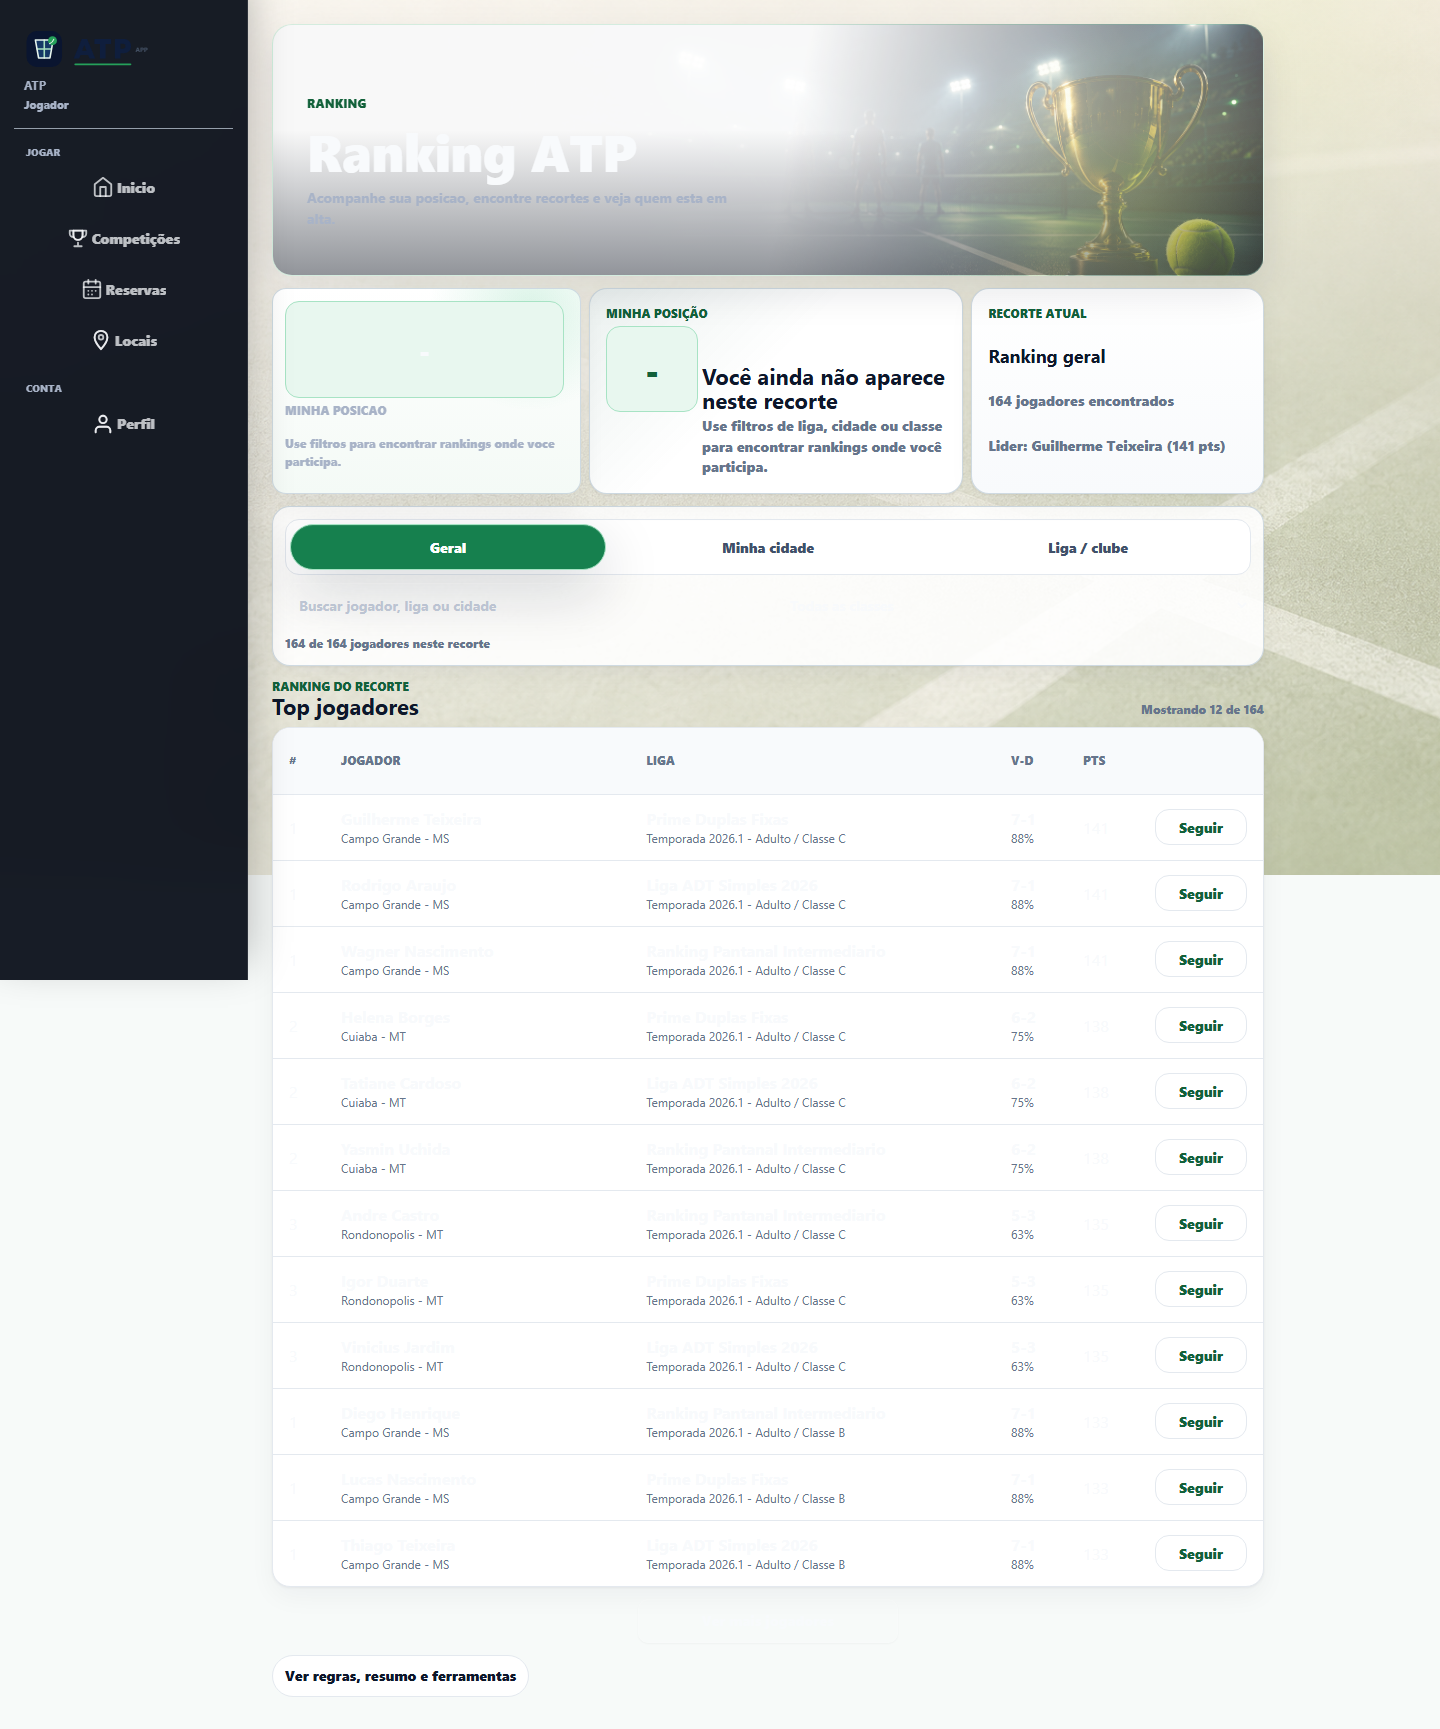
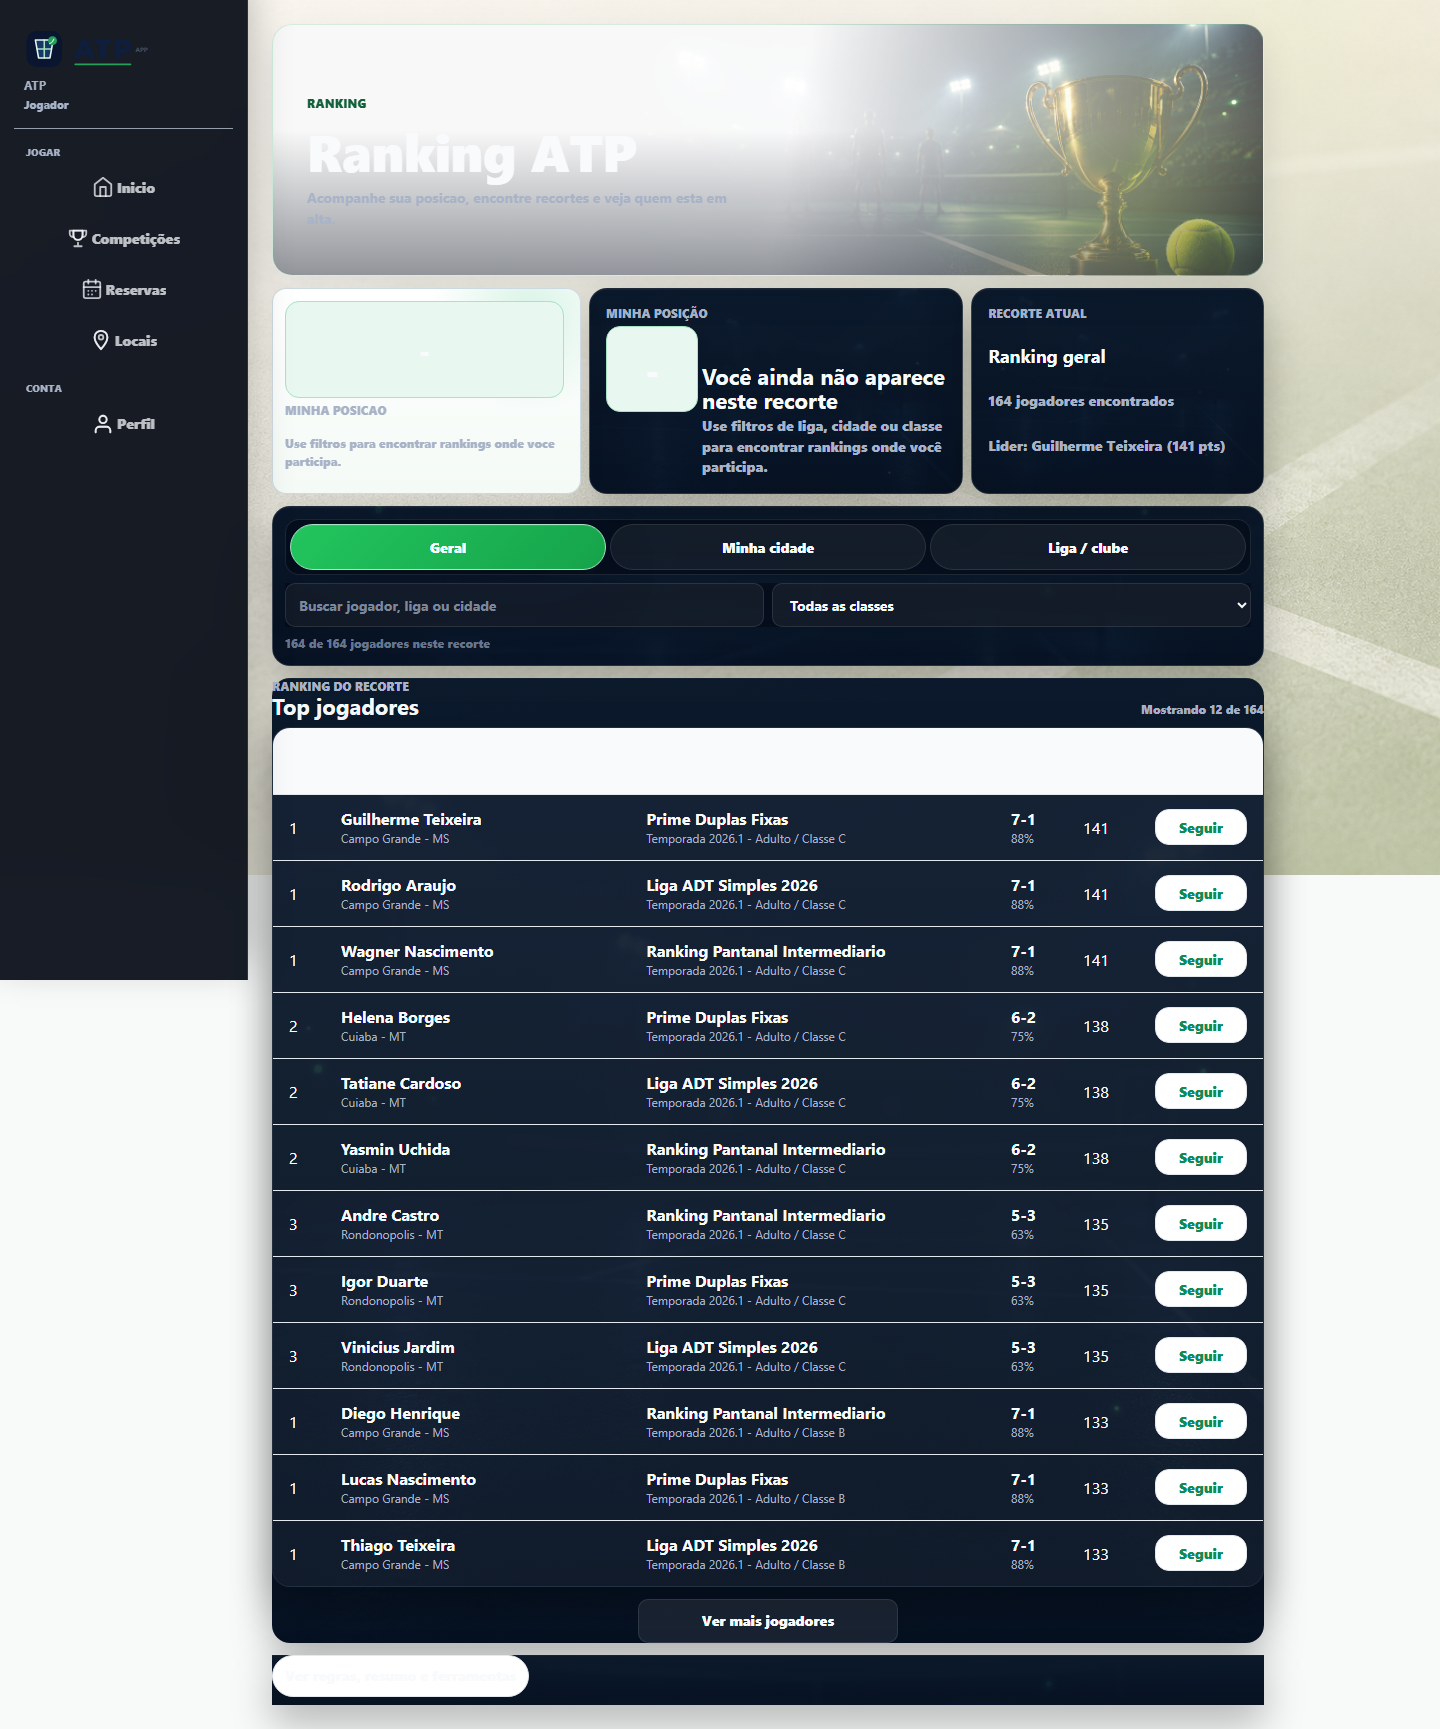
feat: ATP fase 1 — rebrand, perfil, locais, schema base

diff --git a/apps/web/src/App.css b/apps/web/src/App.css
@@ -23754,3 +23754,294 @@ label {
     scroll-snap-align: start;
   }
 }
+
+/* ----- PDARK-04: tournaments and leagues internal routes ----- */
+.app-shell--competition .events-result-list {
+  display: grid;
+  gap: 12px;
+  grid-template-columns: repeat(auto-fit, minmax(260px, 1fr));
+}
+
+.app-shell--competition .events-result-list.organizing,
+.app-shell--competition .events-all-disclosure {
+  background:
+    linear-gradient(180deg, rgba(12, 27, 45, 0.9), rgba(8, 20, 36, 0.78)),
+    url("./assets/pdark-messages-chat-bg.png") center / cover no-repeat;
+  border: 1px solid var(--pdark-border-soft);
+  border-radius: 20px;
+  box-shadow: var(--pdark-card-shadow);
+  color: var(--pdark-text-main);
+  padding: 14px;
+}
+
+.app-shell--competition .events-result-list.organizing summary,
+.app-shell--competition .events-all-disclosure summary,
+.app-shell--competition .events-filter-disclosure summary {
+  color: var(--pdark-text-main);
+  font-weight: 950;
+}
+
+.app-shell--competition .event-card {
+  background:
+    linear-gradient(180deg, rgba(12, 27, 45, 0.92), rgba(8, 20, 36, 0.8)),
+    url("./assets/pdark-tournament-card-01.png") center / cover no-repeat;
+  border-color: var(--pdark-border-soft);
+  border-radius: 20px;
+  box-shadow: var(--pdark-card-shadow);
+  color: var(--pdark-text-main);
+  overflow: hidden;
+}
+
+.app-shell--competition .event-card .ec-body {
+  background: linear-gradient(180deg, rgba(3, 9, 20, 0.28), rgba(3, 9, 20, 0.88));
+}
+
+.app-shell--competition .event-card .ec-name,
+.app-shell--competition .event-card .ec-name-row,
+.app-shell--competition .event-card strong {
+  color: var(--pdark-text-main);
+}
+
+.app-shell--competition .event-card .ec-info-left,
+.app-shell--competition .event-card small,
+.app-shell--competition .event-card .ec-footer-left {
+  color: var(--pdark-text-muted);
+}
+
+.app-shell--competition .event-card .ec-chip,
+.app-shell--competition .home-league-chip,
+.app-shell--competition .organizer-tournament-chip-row span {
+  background: rgba(34, 197, 94, 0.12);
+  border-color: rgba(34, 197, 94, 0.26);
+  color: #4ade80;
+}
+
+.app-shell--competition .organizer-tournament-command {
+  background:
+    linear-gradient(180deg, rgba(12, 27, 45, 0.92), rgba(8, 20, 36, 0.78)),
+    url("./assets/pdark-competitions-trophy-desktop-hero.png") center / cover no-repeat;
+  border-color: rgba(34, 197, 94, 0.24);
+  color: var(--pdark-text-main);
+}
+
+.app-shell--competition .organizer-tournament-command h2,
+.app-shell--competition .organizer-tournament-command strong,
+.app-shell--competition .organizer-tournament-row strong {
+  color: var(--pdark-text-main);
+}
+
+.app-shell--competition .organizer-tournament-command p,
+.app-shell--competition .organizer-tournament-row small,
+.app-shell--competition .organizer-tournament-command span {
+  color: var(--pdark-text-muted);
+}
+
+.app-shell--competition .organizer-tournament-row {
+  background: rgba(255, 255, 255, 0.055);
+  border: 1px solid var(--pdark-border-soft);
+  border-radius: 16px;
+  color: var(--pdark-text-main);
+}
+
+.app-shell--competition .events-filter-card {
+  background:
+    linear-gradient(180deg, rgba(12, 27, 45, 0.88), rgba(8, 20, 36, 0.76)),
+    url("./assets/pdark-empty-state-court-texture.png") center / cover no-repeat;
+}
+
+.app-shell--competition .events-filter-grid label {
+  color: var(--pdark-text-muted);
+  font-weight: 850;
+}
+
+.app-shell--competition .modal.competition-create-modal {
+  background:
+    linear-gradient(180deg, rgba(12, 27, 45, 0.96), rgba(8, 20, 36, 0.92)),
+    url("./assets/pdark-competitions-trophy-desktop-hero.png") center / cover no-repeat;
+  border-color: var(--pdark-border-soft);
+  color: var(--pdark-text-main);
+}
+
+.app-shell--competition .competition-class-list article,
+.app-shell--competition .competition-setup-card,
+.app-shell--competition .setup-stage {
+  background: rgba(255, 255, 255, 0.06);
+  border-color: var(--pdark-border-soft);
+  color: var(--pdark-text-main);
+}
+
+.app-shell--competition .competition-class-list strong,
+.app-shell--competition .competition-setup-card strong,
+.app-shell--competition .setup-stage span {
+  color: var(--pdark-text-main);
+}
+
+.app-shell--competition .competition-class-list span,
+.app-shell--competition .competition-setup-card span,
+.app-shell--competition .setup-stage strong {
+  color: var(--pdark-text-muted);
+}
+
+@media (max-width: 760px) {
+  .app-shell--competition .events-result-list {
+    grid-template-columns: 1fr;
+  }
+
+  .app-shell--competition .event-card {
+    min-height: 0;
+  }
+
+  .app-shell--competition .events-filter-disclosure {
+    border-radius: 18px;
+  }
+}
+
+/* ----- PDARK-04: ranking integration ----- */
+.app-shell--player .ranking-hero-panel,
+.app-shell--competition .ranking-hero-panel {
+  background:
+    linear-gradient(90deg, rgba(3, 9, 20, 0.98), rgba(6, 17, 31, 0.68)),
+    url("./assets/pdark-ranking-desktop-hero.png") center / cover no-repeat;
+  border: 1px solid var(--pdark-border-soft);
+  color: var(--pdark-text-main);
+}
+
+.ranking-control-panel,
+.ranking-player-position,
+.ranking-player-context,
+.ranking-list-shell,
+.ranking-leader-card,
+.ranking-player-card,
+.ranking-rules-card,
+.ranking-race-card,
+.ranking-class-map-card,
+.ranking-tools-card,
+.ranking-table,
+.ranking-secondary-panel {
+  background:
+    linear-gradient(180deg, rgba(12, 27, 45, 0.92), rgba(8, 20, 36, 0.8)),
+    url("./assets/pdark-messages-chat-bg.png") center / cover no-repeat;
+  border-color: var(--pdark-border-soft);
+  box-shadow: var(--pdark-card-shadow);
+  color: var(--pdark-text-main);
+}
+
+.ranking-hero-panel h2,
+.ranking-hero-panel p,
+.ranking-player-position h2,
+.ranking-player-position > strong,
+.ranking-player-context strong,
+.ranking-list-head h2,
+.ranking-leader-card strong,
+.ranking-player-card strong,
+.ranking-rules-card h3,
+.ranking-race-card h3,
+.ranking-class-map-card h3,
+.ranking-tools-card h3,
+.ranking-row strong,
+.ranking-row.head,
+.ranking-secondary-panel summary {
+  color: var(--pdark-text-main);
+}
+
+.ranking-hero-panel span,
+.ranking-player-position > span,
+.ranking-player-position p,
+.ranking-player-context > span,
+.ranking-player-context small,
+.ranking-list-head span,
+.ranking-list-head small,
+.ranking-leader-card small,
+.ranking-player-card small,
+.ranking-rules-card p,
+.ranking-race-card p,
+.ranking-class-map-card p,
+.ranking-tools-card p,
+.ranking-row small {
+  color: var(--pdark-text-muted);
+}
+
+.ranking-scope-tabs,
+.ranking-filters {
+  background: rgba(3, 9, 20, 0.58);
+  border-color: var(--pdark-border-soft);
+}
+
+.ranking-scope-tabs button {
+  background: rgba(255, 255, 255, 0.06);
+  border-color: var(--pdark-border-soft);
+  color: var(--pdark-text-main);
+}
+
+.ranking-scope-tabs button.active {
+  background: linear-gradient(135deg, var(--pdark-green-main), var(--pdark-green-strong));
+  color: #ffffff;
+}
+
+.ranking-row {
+  background: rgba(255, 255, 255, 0.045);
+  border-color: rgba(255, 255, 255, 0.08);
+  color: var(--pdark-text-main);
+}
+
+.ranking-row.mine {
+  background: rgba(34, 197, 94, 0.12);
+  border-color: rgba(34, 197, 94, 0.28);
+}
+
+.ranking-row button,
+.ranking-load-more button,
+.ranking-filter-actions button {
+  background: rgba(255, 255, 255, 0.08);
+  border-color: var(--pdark-border-soft);
+  color: var(--pdark-text-main);
+}
+
+.ranking-row .ranking-follow-button,
+.ranking-row .ranking-follow-button.active {
+  background: #ffffff;
+  color: #0f8b55;
+}
+
+@media (max-width: 760px) {
+  .ranking-hero-panel {
+    min-height: 210px;
+  }
+
+  .ranking-control-panel,
+  .ranking-player-position,
+  .ranking-player-context,
+  .ranking-list-shell {
+    border-radius: 20px;
+  }
+}
+
+.app-shell .ranking-hero-panel {
+  background:
+    linear-gradient(90deg, rgba(3, 9, 20, 0.96), rgba(6, 17, 31, 0.62)),
+    url("./assets/pdark-ranking-desktop-hero.png") center / cover no-repeat !important;
+}
+
+.app-shell .ranking-hero-panel::before {
+  background: linear-gradient(90deg, rgba(3, 9, 20, 0.58), rgba(3, 9, 20, 0.08));
+}
+
+.app-shell .ranking-my-card,
+.app-shell .ranking-player-overview .app-metric-card {
+  background:
+    linear-gradient(180deg, rgba(12, 27, 45, 0.92), rgba(8, 20, 36, 0.8)),
+    url("./assets/pdark-empty-state-court-texture.png") center / cover no-repeat;
+  border-color: var(--pdark-border-soft);
+  color: var(--pdark-text-main);
+}
+
+.app-shell .ranking-my-card strong,
+.app-shell .ranking-my-card span,
+.app-shell .ranking-player-overview .app-metric-card strong {
+  color: var(--pdark-text-main);
+}
+
+.app-shell .ranking-my-card small,
+.app-shell .ranking-player-overview .app-metric-card span {
+  color: var(--pdark-text-muted);
+}

diff --git a/apps/web/docs/ATP_PREMIUM_DARK_GLOBAL_QUEUE_2026_05_19.md b/apps/web/docs/ATP_PREMIUM_DARK_GLOBAL_QUEUE_2026_05_19.md
@@ -309,7 +309,7 @@ Validacao:
 
 ## PDARK-04 - Competições hub, torneios, ligas e rankings
 
-Status: `[~]` em andamento
+Status: `[x]` concluido em 2026-05-19
 
 Rotas:
 
@@ -349,24 +349,22 @@ Criterios de aceite:
 - mobile mostra central compacta, nao lista vazia;
 - organizacao de torneios/ligas continua disponivel para Trabalho.
 
-Entrega parcial sprint 2:
+Entrega sprint 2/3:
 
 1. Hub `/eventos` recebeu centro de comando com KPIs de inscricoes abertas, ligas ativas e competicoes vinculadas ao jogador.
 2. Foram adicionados atalhos em abas para `Torneios`, `Ligas` e `Rankings`.
 3. Hub ganhou paineis de destaque: `Proximos torneios`, `Liga em destaque` e `Resultados recentes`.
 4. Os novos blocos usam glass dark, imagem premium e comportamento responsivo com carrossel horizontal no mobile.
-
-Pendente para concluir PDARK-04:
-
-- refinar `/eventos/torneios`;
-- refinar `/eventos/ligas`;
-- fechar integracao visual de `/ranking` com a central de competicoes;
-- revisar estados vazios especificos dessas rotas.
+5. `/eventos/torneios` e `/eventos/ligas` receberam camada premium dark em cards, filtros, estados vazios, KPIs e modais de criacao.
+6. `/ranking` foi alinhado visualmente a Competicoes, com hero dark, controles, tabela e cards de posicao em superficies glass.
 
 Evidencias:
 
 - `docs/screenshots/visual-local-audit-2026-05-18/desktop-events-hub.png`
 - `docs/screenshots/visual-local-audit-2026-05-18/mobile-events-hub.png`
+- `docs/screenshots/visual-local-audit-2026-05-18/desktop-tournaments.png`
+- `docs/screenshots/visual-local-audit-2026-05-18/mobile-leagues.png`
+- `docs/screenshots/visual-local-audit-2026-05-18/mobile-ranking.png`
 
 Validacao:
 

diff --git a/apps/web/docs/EXECUTION_QUEUE.md b/apps/web/docs/EXECUTION_QUEUE.md
@@ -81,8 +81,8 @@ Fila macro:
 2. `[x]` PDARK-01 - Shell global, navegacao e contexto Jogador/Trabalho.
 3. `[x]` PDARK-02 - Login, cadastro e estados de entrada.
 4. `[x]` PDARK-03 - Home Jogador premium.
-5. `[>]` PDARK-04 - Competições hub, torneios, ligas e rankings.
-6. `[ ]` PDARK-05 - Detalhe de torneio, inscrição e convite.
+5. `[x]` PDARK-04 - Competições hub, torneios, ligas e rankings.
+6. `[>]` PDARK-05 - Detalhe de torneio, inscrição e convite.
 7. `[ ]` PDARK-06 - Liga, rodada, chat e matchroom.
 8. `[ ]` PDARK-07 - Areas pessoais: reservas, partidas, aulas e pagamentos.
 9. `[ ]` PDARK-08 - Locais, detalhe do clube e reservar quadra.
@@ -134,9 +134,20 @@ Validacao sprint 2:
 - `npm.cmd run build` passou.
 - `node scripts\capture-visual-audit.mjs` passou e atualizou screenshots.
 
+Entrega sprint 3 em 2026-05-19:
+
+1. `PDARK-04` concluido: `/eventos/torneios`, `/eventos/ligas` e `/ranking` receberam camada premium dark em cards, filtros, estados vazios, KPIs, tabela e modais.
+2. Evidencias atualizadas: `desktop-tournaments.png`, `mobile-leagues.png`, `desktop-ranking.png`, `mobile-ranking.png`.
+
+Validacao sprint 3:
+
+- `npm.cmd run lint` passou.
+- `npm.cmd run build` passou.
+- `node scripts\capture-visual-audit.mjs` passou e atualizou screenshots.
+
 Proximo item:
 
-- Continuar `PDARK-04`, fechando `/eventos/torneios`, `/eventos/ligas` e o alinhamento final de `/ranking`.
+- `PDARK-05 - Detalhe de torneio, inscricao e convite`.
 
 ## Sprint atual - Referencias visuais ATP premium
 
